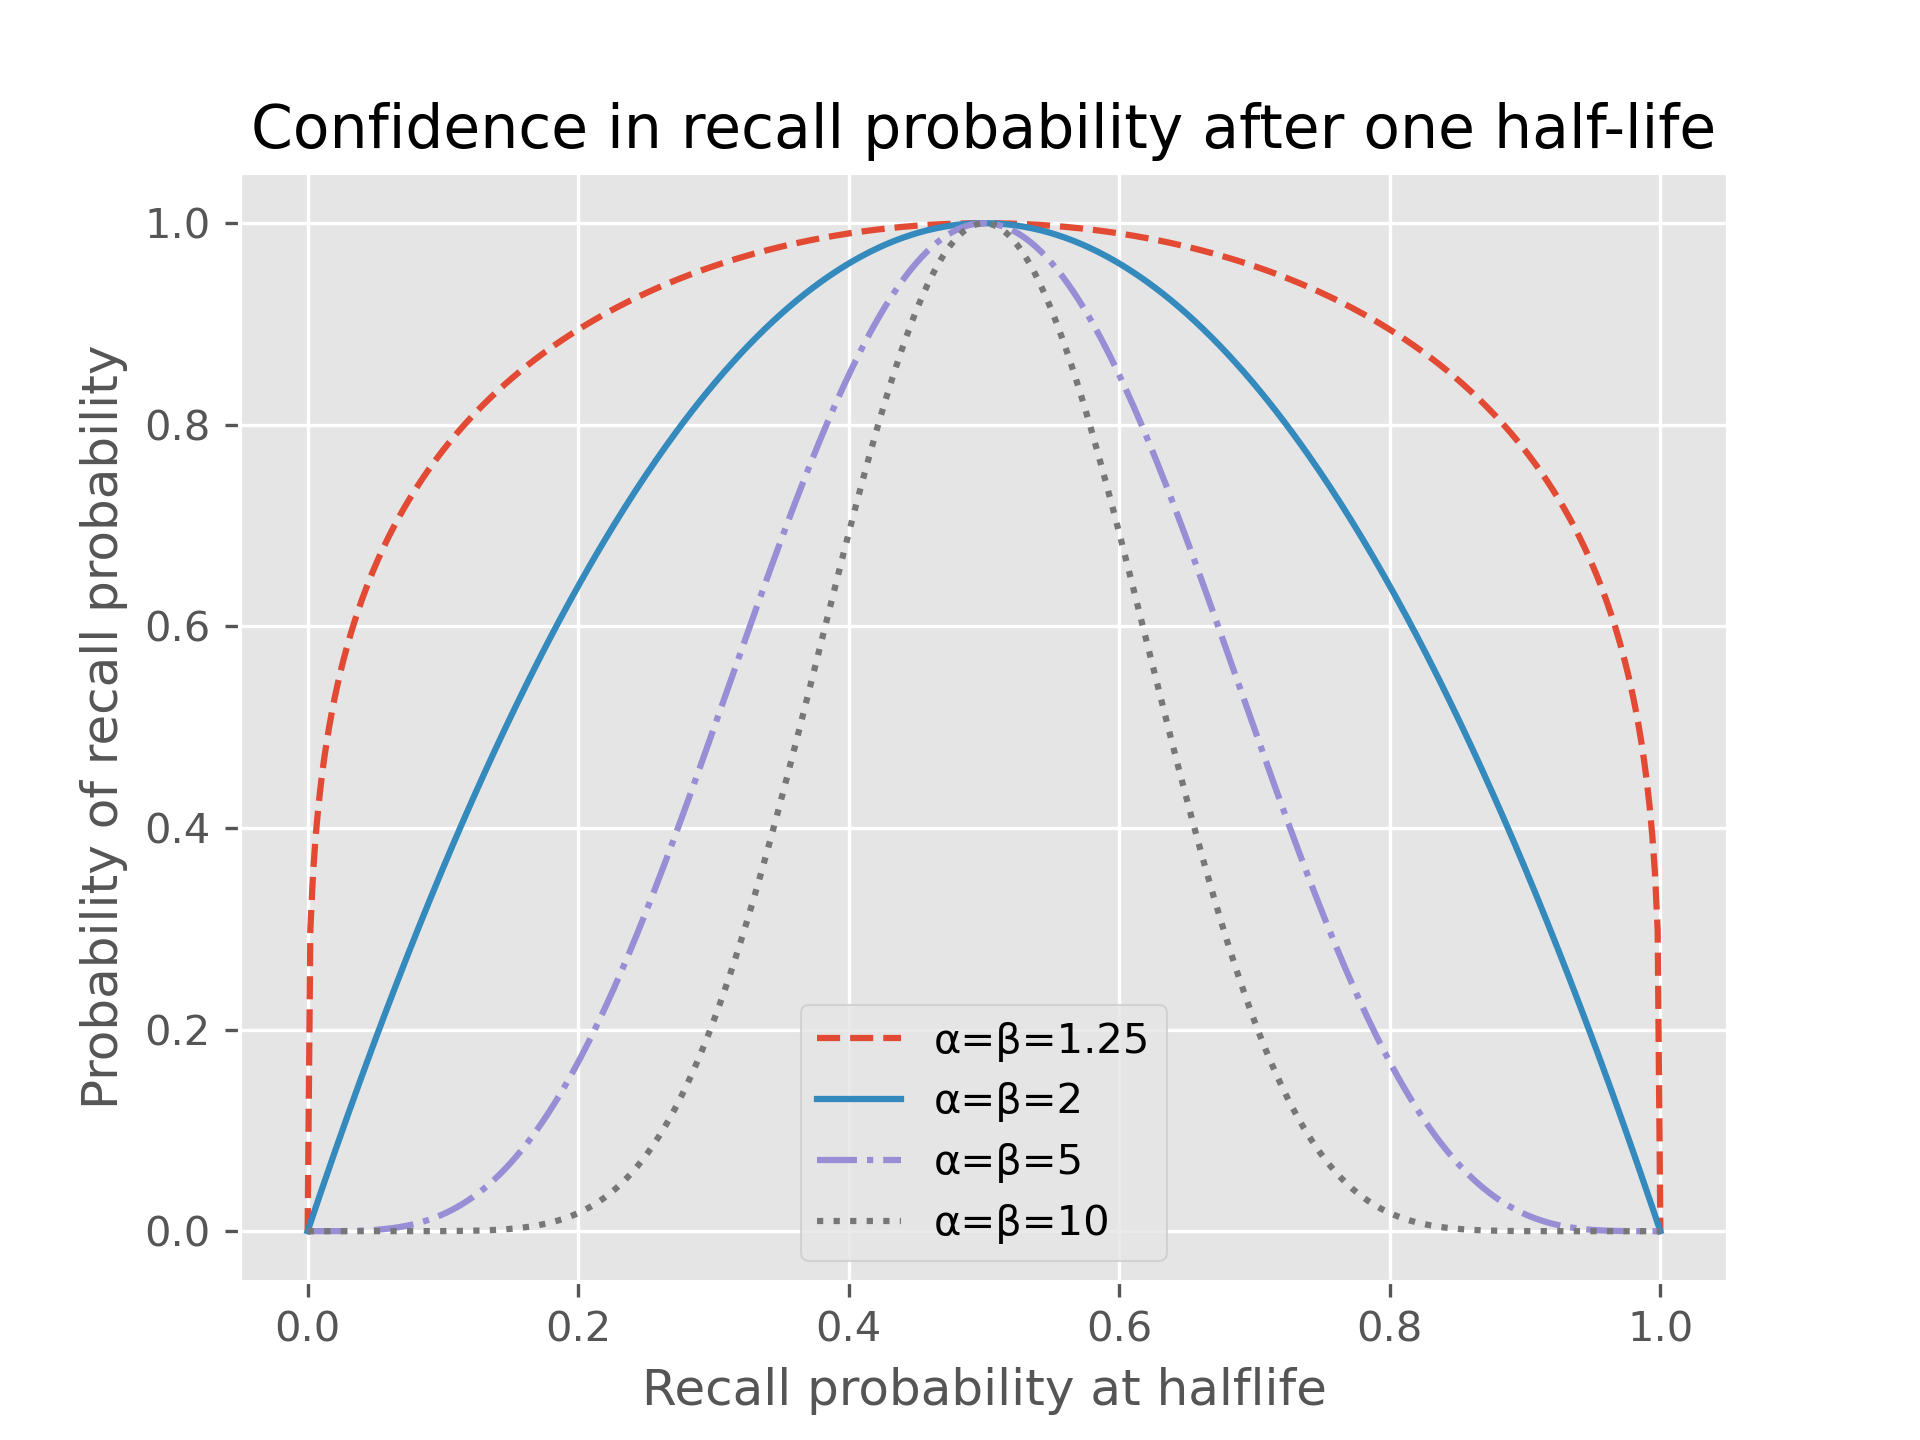
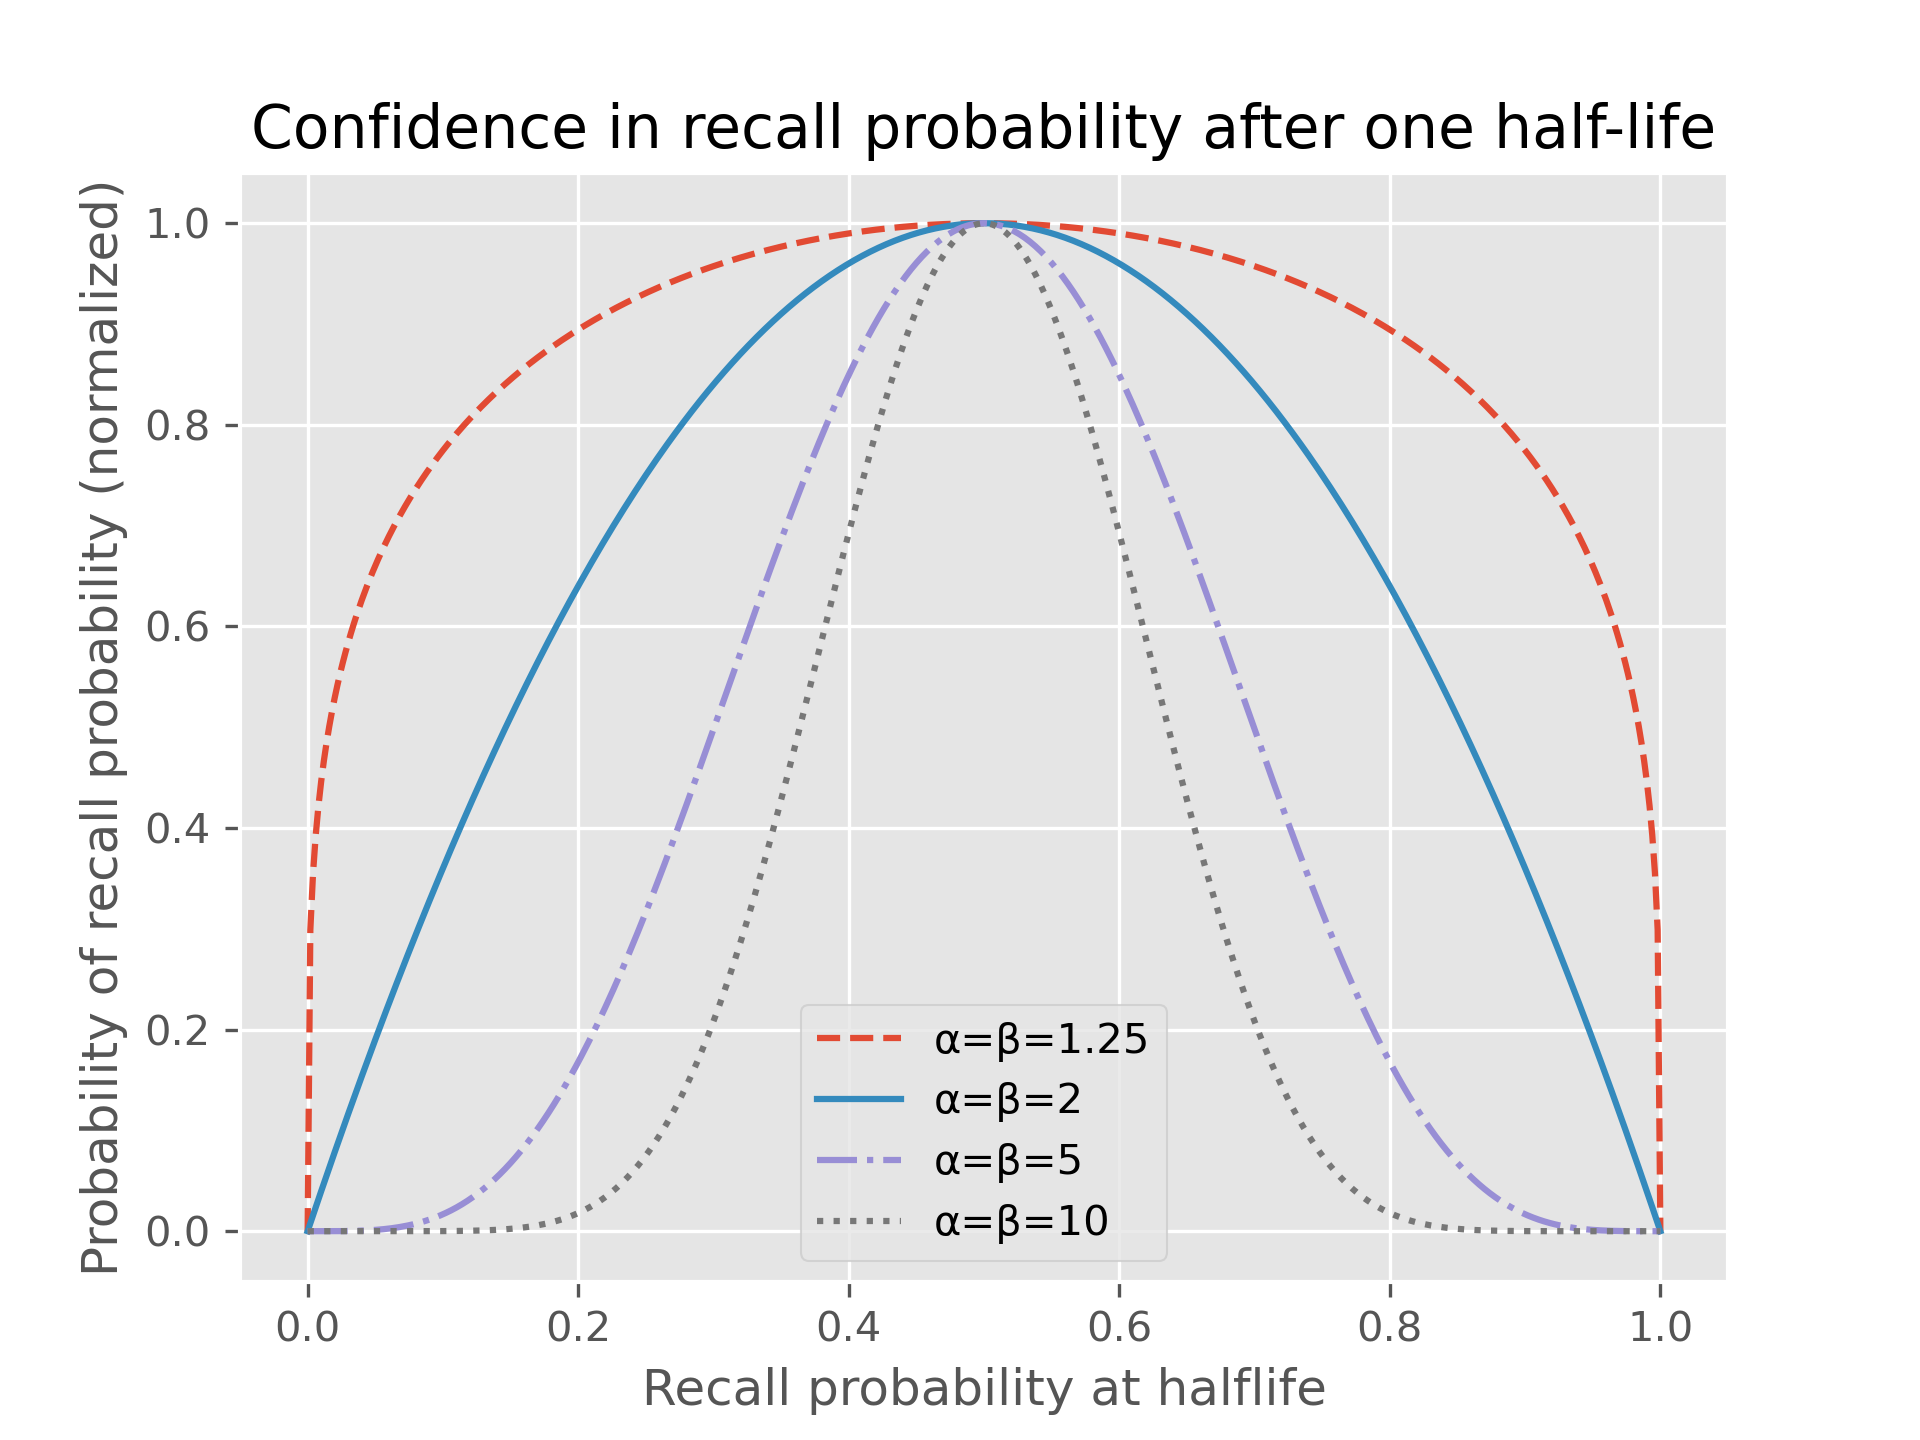
normalized probability in chart; mention priors

Changed region(s): [[0.0312, 0.125, 0.0625, 0.875]]

diff --git a/scripts/betaPlots.py b/scripts/betaPlots.py
@@ -15,7 +15,7 @@ for i, ab in enumerate([1.25, 2, 5, 10]):
 
 plt.legend()
 plt.xlabel('Recall probability at halflife')
-plt.ylabel('Probability of recall probability')
+plt.ylabel('Probability of recall probability (normalized)')
 plt.title('Confidence in recall probability after one half-life')
 plt.savefig('figures/betas.png', dpi=300)
 plt.savefig('figures/betas.svg')

diff --git a/README.md b/README.md
@@ -144,13 +144,13 @@ def initModel(
 
 The only required argument is `firstHalflife`, your best guess as to how much time it'll take for this student's probability of recall for this fact to drop to 50%. Ebisu doesn't care about what time units you use so you have to be consistent: pick hours or days or whatever, and use the same unit everywhere.
 
-> Ebisu is Bayesian, so it doesn't treat `firstHalflife` as "the truth", but rather as your probabilistic belief. More specifically, you are telling Ebisu that that after `firstHalflife` time units have elapsed, the student's memory will decay to a `Beta(α, β)` random variable, with both parameters, `α` and `β`, set to `initialAlphaBeta > 1`. Here's what that looks like visually for a few different `initialAlphaBeta`:
+> Ebisu is Bayesian, so it doesn't treat `firstHalflife` as "the truth", but rather as your probabilistic belief about the halflife before you see any quizzes, considering only what you know about this student and this fact. More specifically, you are telling Ebisu that that after `firstHalflife` time units have elapsed, the student's memory will decay to a `Beta(α, β)` random variable, with both parameters, `α` and `β`, set to `initialAlphaBeta > 1`. Here's what that looks like visually for a few different `initialAlphaBeta`:
 >
 > ![Distribution of Beta random variables with parameters 1.25, 2, 5, and 10](./figures/betas.svg)
 >
 > This chart can be confusing if you're not used to thinking about probabilities on probabilities 😅! It shows that, no matter what you pick for `initialAlphaBeta`, the student's recall probability after one halflife is 50-50, since all four curves peak at 0.5. However, varying `initialAlphaBeta` encodes different beliefs about how _confident_ you are in your claim that this is the halflife. The default `initialAlphaBeta=2` gives you quite a lot of wiggle room: the student's probability of recall after one halflife might be as low as 20% or as high as 80%.
 >
-> However, setting a high `initialAlphaBeta` says "I'm _really_ confident that the halflife I tell you is really the halflife", so for example, `initialAlphaBeta=10` has most its support between 40% and 60% recall probability. At the other end of the extreme, setting `initialAlphaBeta=1.25` (very close to the boundary of 1!) is _really_ uncertain about the student's probability of recall after one halflife without studying this fact. Most of its support is actually between 5% and 95%!
+> In contrast, setting a high `initialAlphaBeta` says "I'm _really_ confident that the halflife I tell you is really the halflife", so for example, `initialAlphaBeta=10` has most its support between 40% and 60% recall probability. At the other end of the extreme, setting `initialAlphaBeta=1.25` (very close to the boundary of 1!) is _really_ uncertain about the student's probability of recall after one halflife without studying this fact. Most of its support is actually between 5% and 95%! The default of 2 is forgiving and gives you a lot of wiggle-room to be quite wrong about the true halflife (i.e., your prior as encoded by `firstHalflife` is allowed to be quite wrong).
 
 Morever, Ebisu creates not just one such Beta random variable but `numAtoms` of them, each with a halflife that logarithmically-decreases from `firstHalflife` to `lastHalflife`. (History note, this is the main innovation from Ebisu v2 to v3: more than one atom.) This is important because human memory is fat-tailed (more on this below in the [math](#math) section!): sometimes a fact that you learned just now you'll remember for years without review, and having an atom encoding a halflife of a year can capture this.
 
